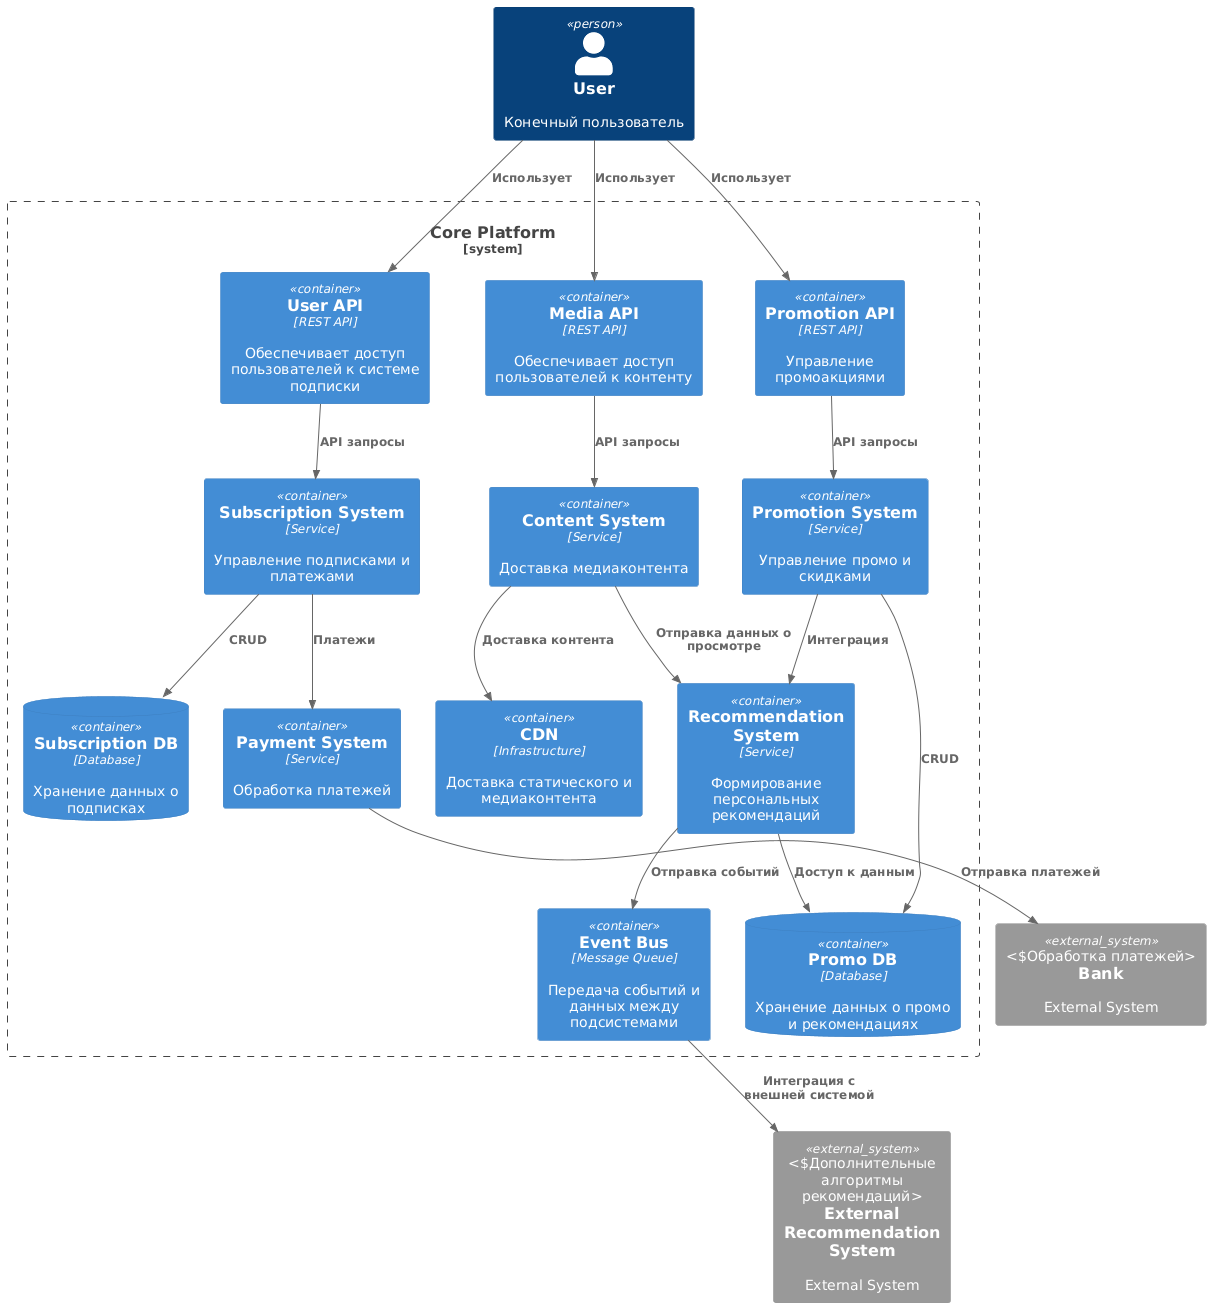
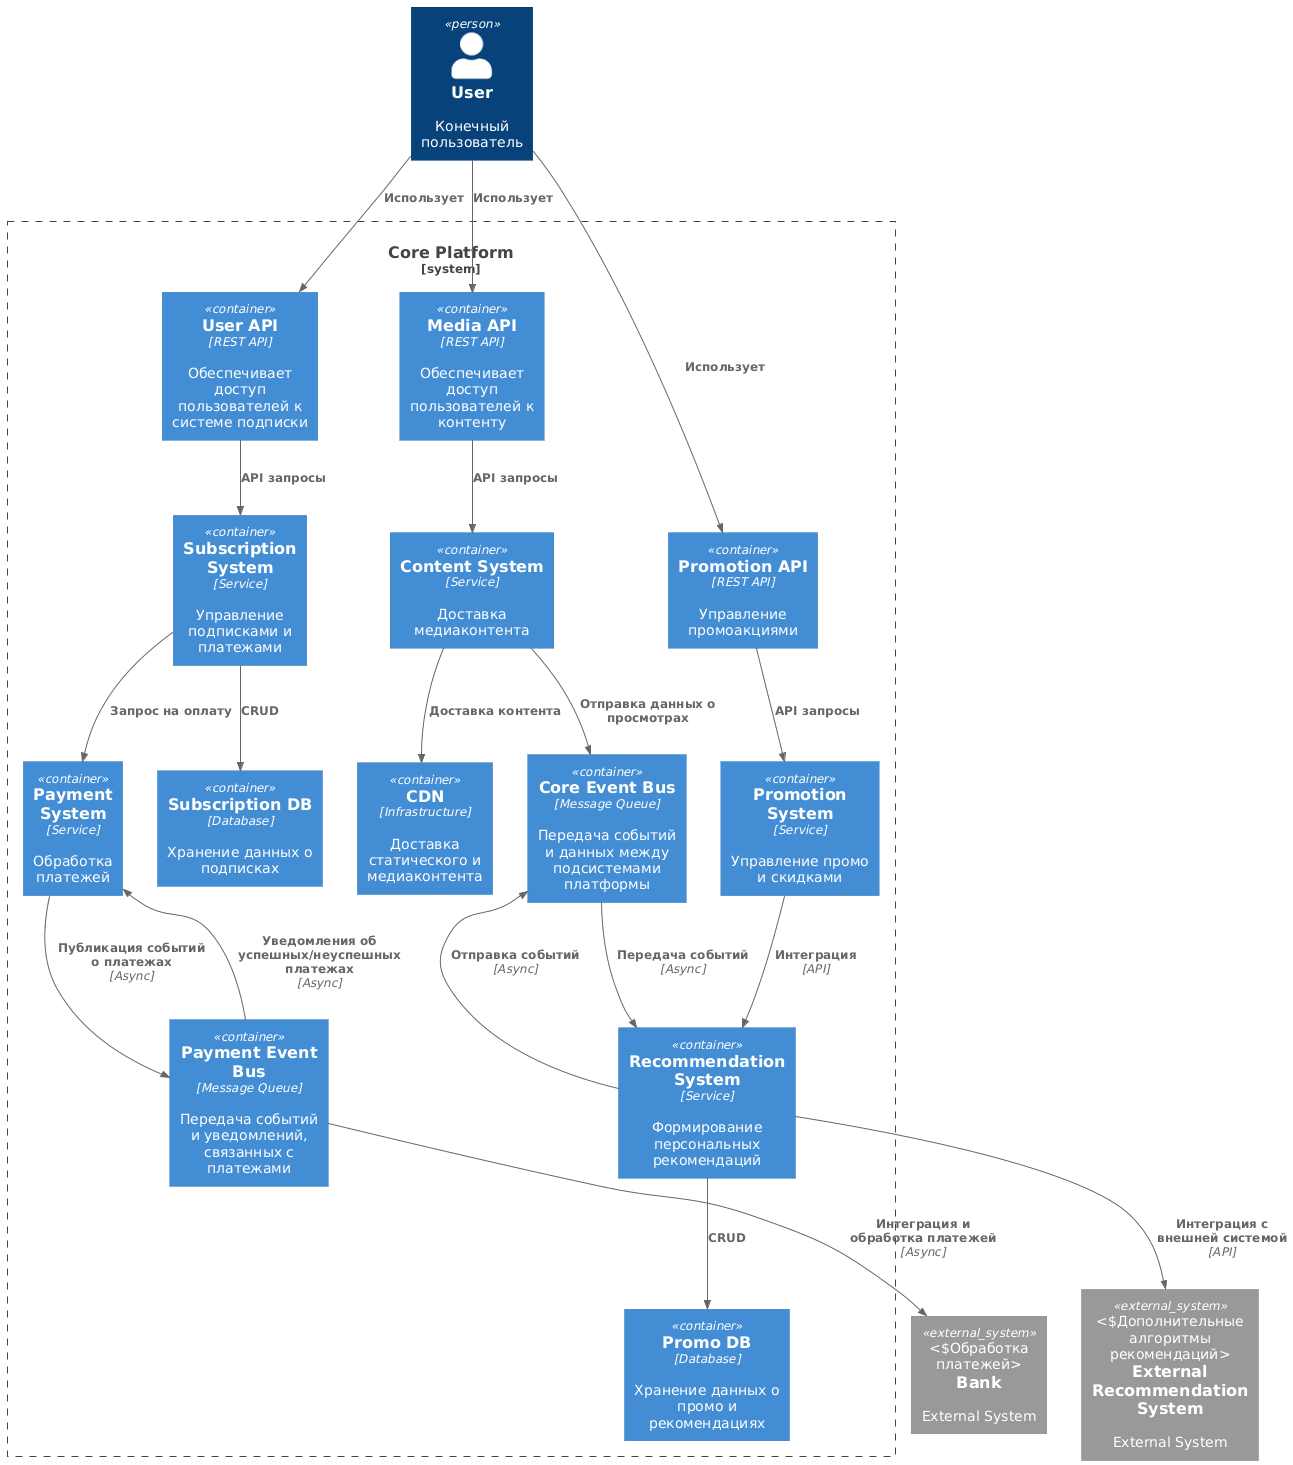
123

diff --git a/Project_template.md b/Project_template.md
@@ -2,110 +2,42 @@
 
 # Задание 1
 
-1. Спроектируйте to be архитектуру КиноБездны, разделив всю систему на отдельные домены и организовав интеграционное взаимодействие и единую точку вызова сервисов.
-Результат представьте в виде контейнерной диаграммы в нотации С4.
-Добавьте ссылку на файл в этот шаблон
-[ссылка на файл](ссылка)
+c4 диаграмма существующего решения
+
+
+![c4](src\schemas\cinema_container_schema.jpg)
+
+
+
+
+с4 диаграмма целевого решения с описанием процесса миграции
+
+
+![c4](src\schemas\cinema_container_schema_target.jpg)
+
 
 # Задание 2
 
 ### 1. Proxy
-Команда КиноБездны уже выделила сервис метаданных о фильмах movies и вам необходимо реализовать бесшовный переход с применением паттерна Strangler Fig в части реализации прокси-сервиса (API Gateway), с помощью которого можно будет постепенно переключать траффик, используя фиче-флаг.
 
+для ускорения разработки mvp был выбран [kong](src\microservices\proxy\kong.yml)
 
-Реализуйте сервис на любом языке программирования в ./src/microservices/proxy.
-Конфигурация для запуска сервиса через docker-compose уже добавлена
-```yaml
-  proxy-service:
-    build:
-      context: ./src/microservices/proxy
-      dockerfile: Dockerfile
-    container_name: cinemaabyss-proxy-service
-    depends_on:
-      - monolith
-      - movies-service
-      - events-service
-    ports:
-      - "8000:8000"
-    environment:
-      PORT: 8000
-      MONOLITH_URL: http://monolith:8080
-      #монолит
-      MOVIES_SERVICE_URL: http://movies-service:8081 #сервис movies
-      EVENTS_SERVICE_URL: http://events-service:8082 
-      GRADUAL_MIGRATION: "true" # вкл/выкл простого фиче-флага
-      MOVIES_MIGRATION_PERCENT: "50" # процент миграции
-    networks:
-      - cinemaabyss-network
-```
-
-- После реализации запустите postman тесты - они все должны быть зеленые (кроме events).
-- Отправьте запросы к API Gateway:
-   ```bash
-   curl http://localhost:8000/api/movies
-   ```
-- Протестируйте постепенный переход, изменив переменную окружения MOVIES_MIGRATION_PERCENT в файле docker-compose.yml.
+процесс миграции регулируется в разделе upstreams в файле конфигурации описанном ранее
 
 
 ### 2. Kafka
- Вам как архитектуру нужно также проверить гипотезу насколько просто реализовать применение Kafka в данной архитектуре.
+ event-service tests results
 
-Для этого нужно сделать MVP сервис events, который будет при вызове API создавать и сам же читать сообщения в топике Kafka.
 
-    - Разработайте сервис на любом языке программирования с consumer'ами и producer'ами.
-    - Реализуйте простой API, при вызове которого будут создаваться события User/Payment/Movie и обрабатываться внутри сервиса с записью в лог
-    - Добавьте в docker-compose новый сервис, kafka там уже есть
+ ![ev](src\screenshots\events.bmp)
 
-Необходимые тесты для проверки этого API вызываются при запуске npm run test:local из папки tests/postman 
-Приложите скриншот тестов и скриншот состояния топиков Kafka из UI http://localhost:8090 
+
+
+
 
 # Задание 3
 
-Команда начала переезд в Kubernetes для лучшего масштабирования и повышения надежности. 
-Вам, как архитектору осталось самое сложное:
- - реализовать CI/CD для сборки прокси сервиса
- - реализовать необходимые конфигурационные файлы для переключения трафика.
 
-
-### CI/CD
-
- В папке .github/worflows доработайте деплой новых сервисов proxy и events в docker-build-push.yml , чтобы api-tests при сборке отрабатывали корректно при отправке коммита в ваш репозиторий.
-
-Нужно доработать 
-```yaml
-on:
-  push:
-    branches: [ main ]
-    paths:
-      - 'src/**'
-      - '.github/workflows/docker-build-push.yml'
-  release:
-    types: [published]
-```
-и добавить необходимые шаги в блок
-```yaml
-jobs:
-  build-and-push:
-    runs-on: ubuntu-latest
-    permissions:
-      contents: read
-      packages: write
-
-    steps:
-      - name: Checkout repository
-        uses: actions/checkout@v3
-
-      - name: Set up Docker Buildx
-        uses: docker/setup-buildx-action@v2
-
-      - name: Log in to the Container registry
-        uses: docker/login-action@v2
-        with:
-          registry: ${{ env.REGISTRY }}
-          username: ${{ github.actor }}
-          password: ${{ secrets.GITHUB_TOKEN }}
-
-```
 Как только сборка отработает и в github registry появятся ваши образы, можно переходить к блоку настройки Kubernetes
 Успешным результатом данного шага является "зеленая" сборка и "зеленые" тесты
 
@@ -113,54 +45,7 @@ jobs:
 ### Proxy в Kubernetes
 
 #### Шаг 1
-Для деплоя в kubernetes необходимо залогиниться в docker registry Github'а.
-1. Создайте Personal Access Token (PAT) https://github.com/settings/tokens . Создавайте class с правом read:packages
-2. В src/kubernetes/*.yaml (event-service, monolith, movies-service и proxy-service)  отредактируйте путь до ваших образов 
-```bash
- spec:
-      containers:
-      - name: events-service
-        image: ghcr.io/ваш логин/имя репозитория/events-service:latest
-```
-3. Добавьте в секрет src/kubernetes/dockerconfigsecret.yaml в поле
-```bash
- .dockerconfigjson: значение в base64 файла ~/.docker/config.json
-```
 
-4. Если в ~/.docker/config.json нет значения для аутентификации
-```json
-{
-        "auths": {
-                "ghcr.io": {
-                       тут пусто
-                }
-        }
-}
-```
-то выполните 
-
-и добавьте
-
-```json 
- "auth": "имя пользователя:токен в base64"
-```
-
-Чтобы получить значение в base64 можно выполнить команду
-```bash
- echo -n ваш_логин:ваш_токен | base64
-```
-
-После заполнения config.json, также прогоните содержимое через base64
-
-```bash
-cat .docker/config.json | base64
-```
-
-и полученное значение добавляем в
-
-```bash
- .dockerconfigjson: значение в base64 файла ~/.docker/config.json
-```
 
 #### Шаг 2
 
